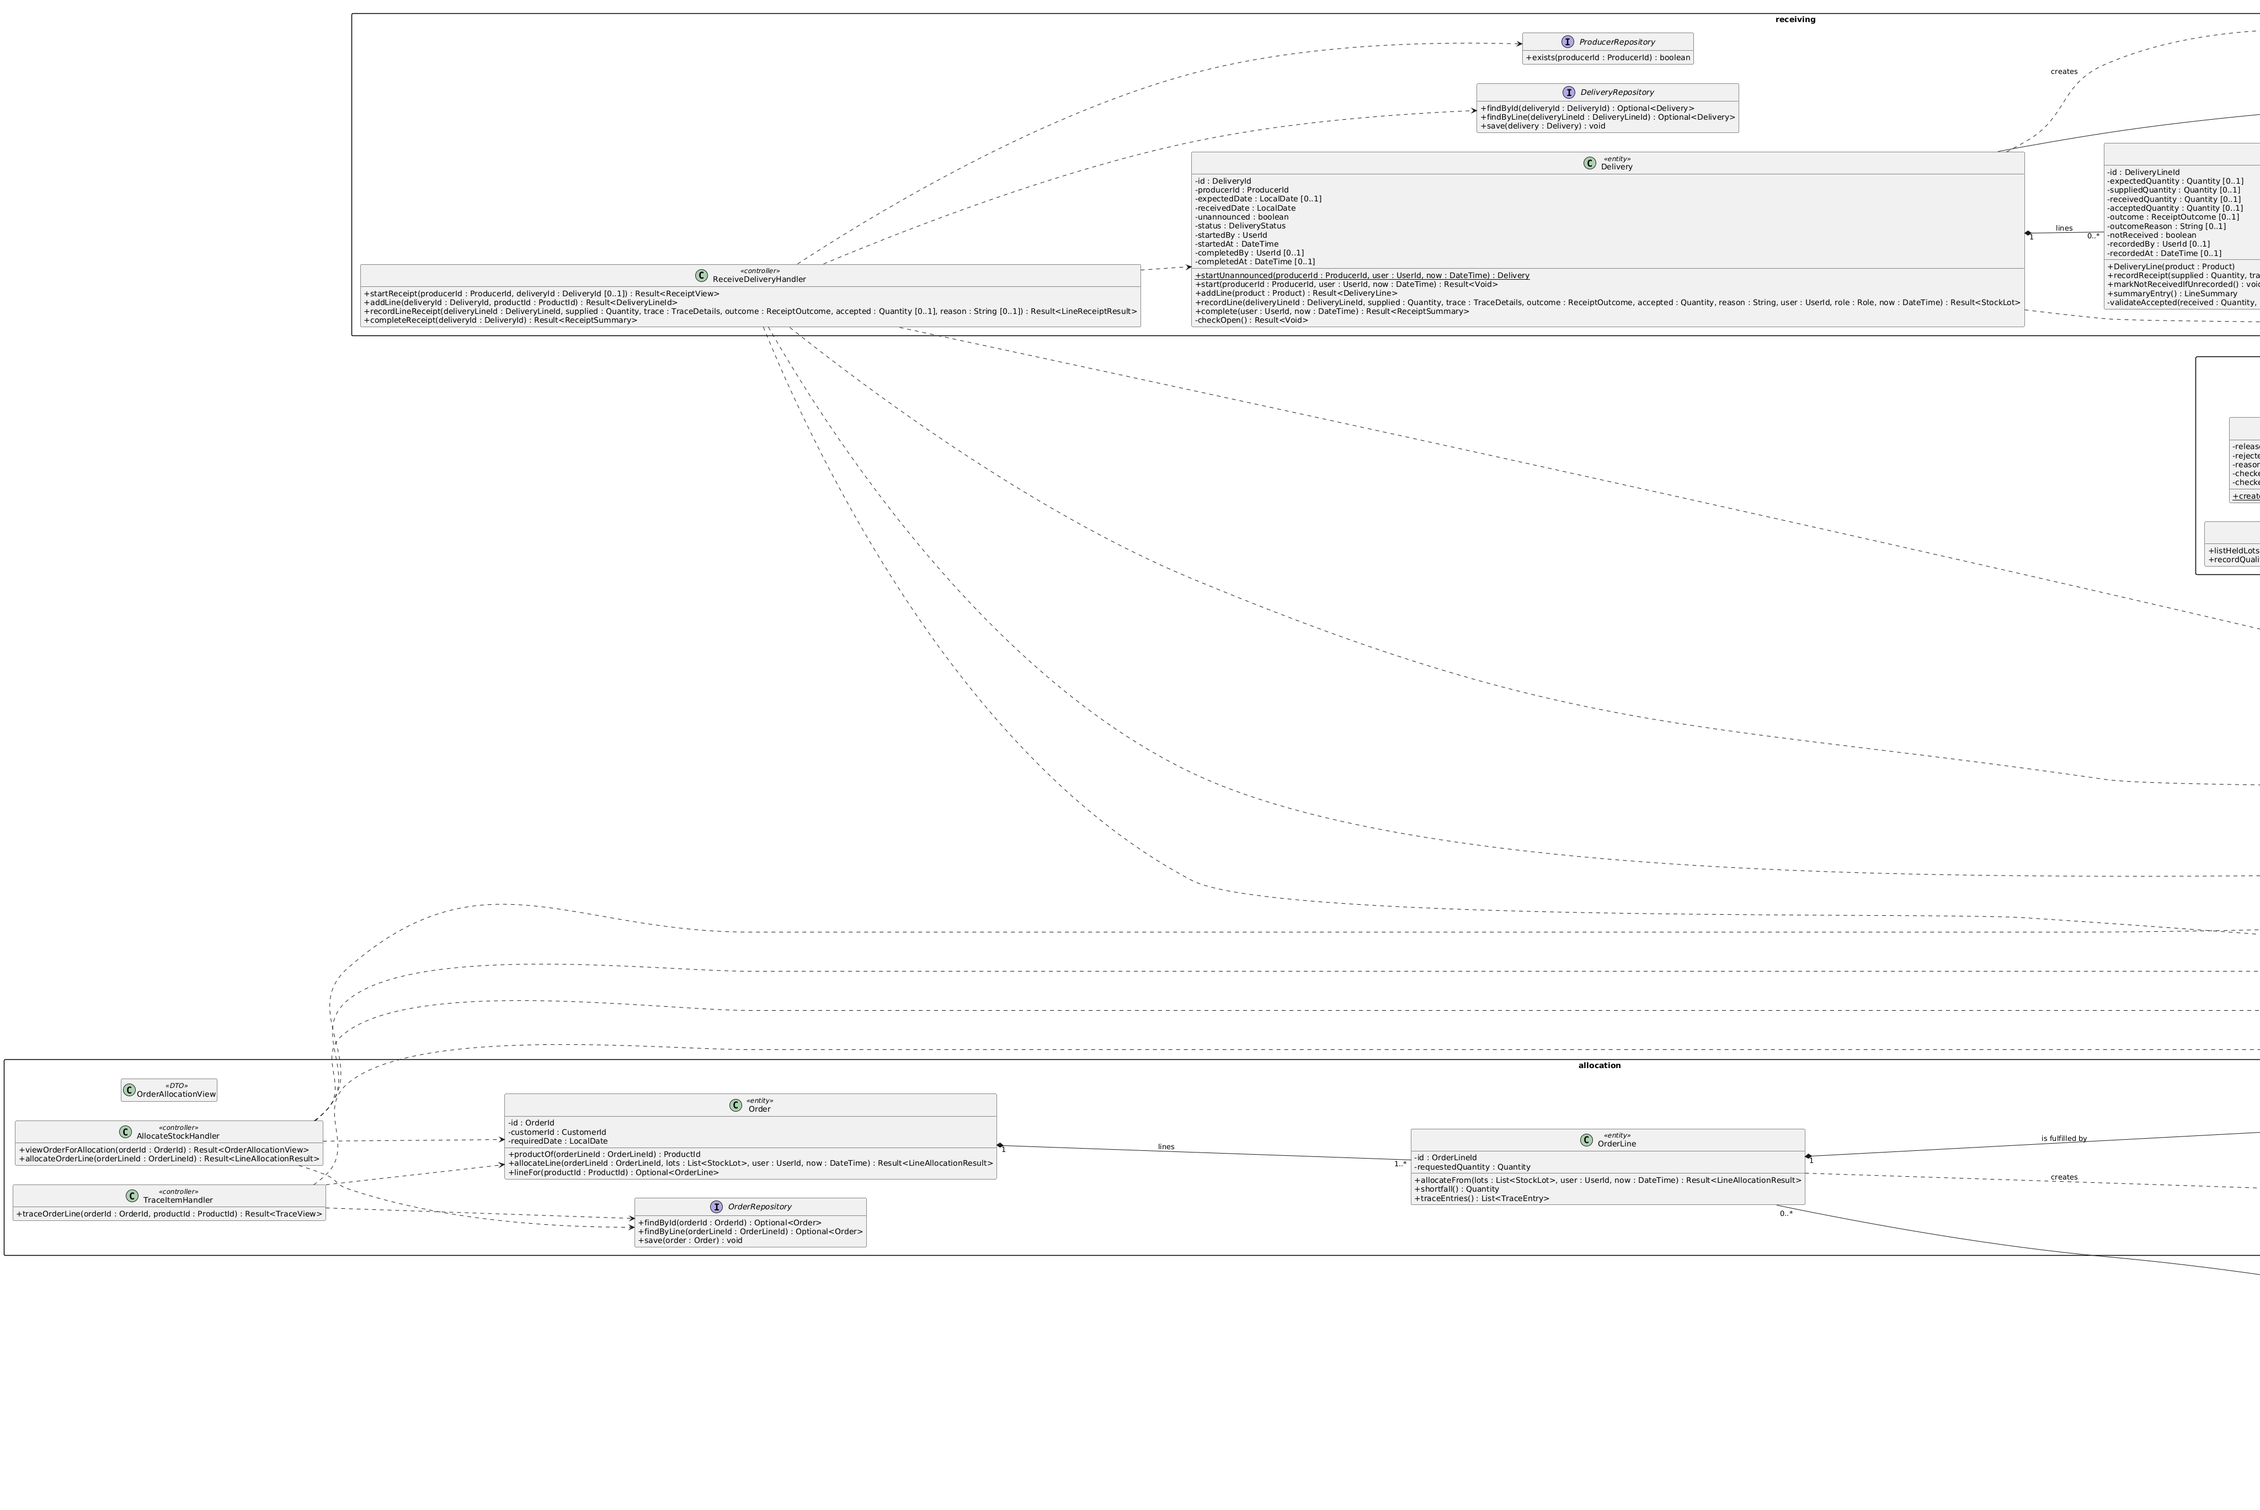
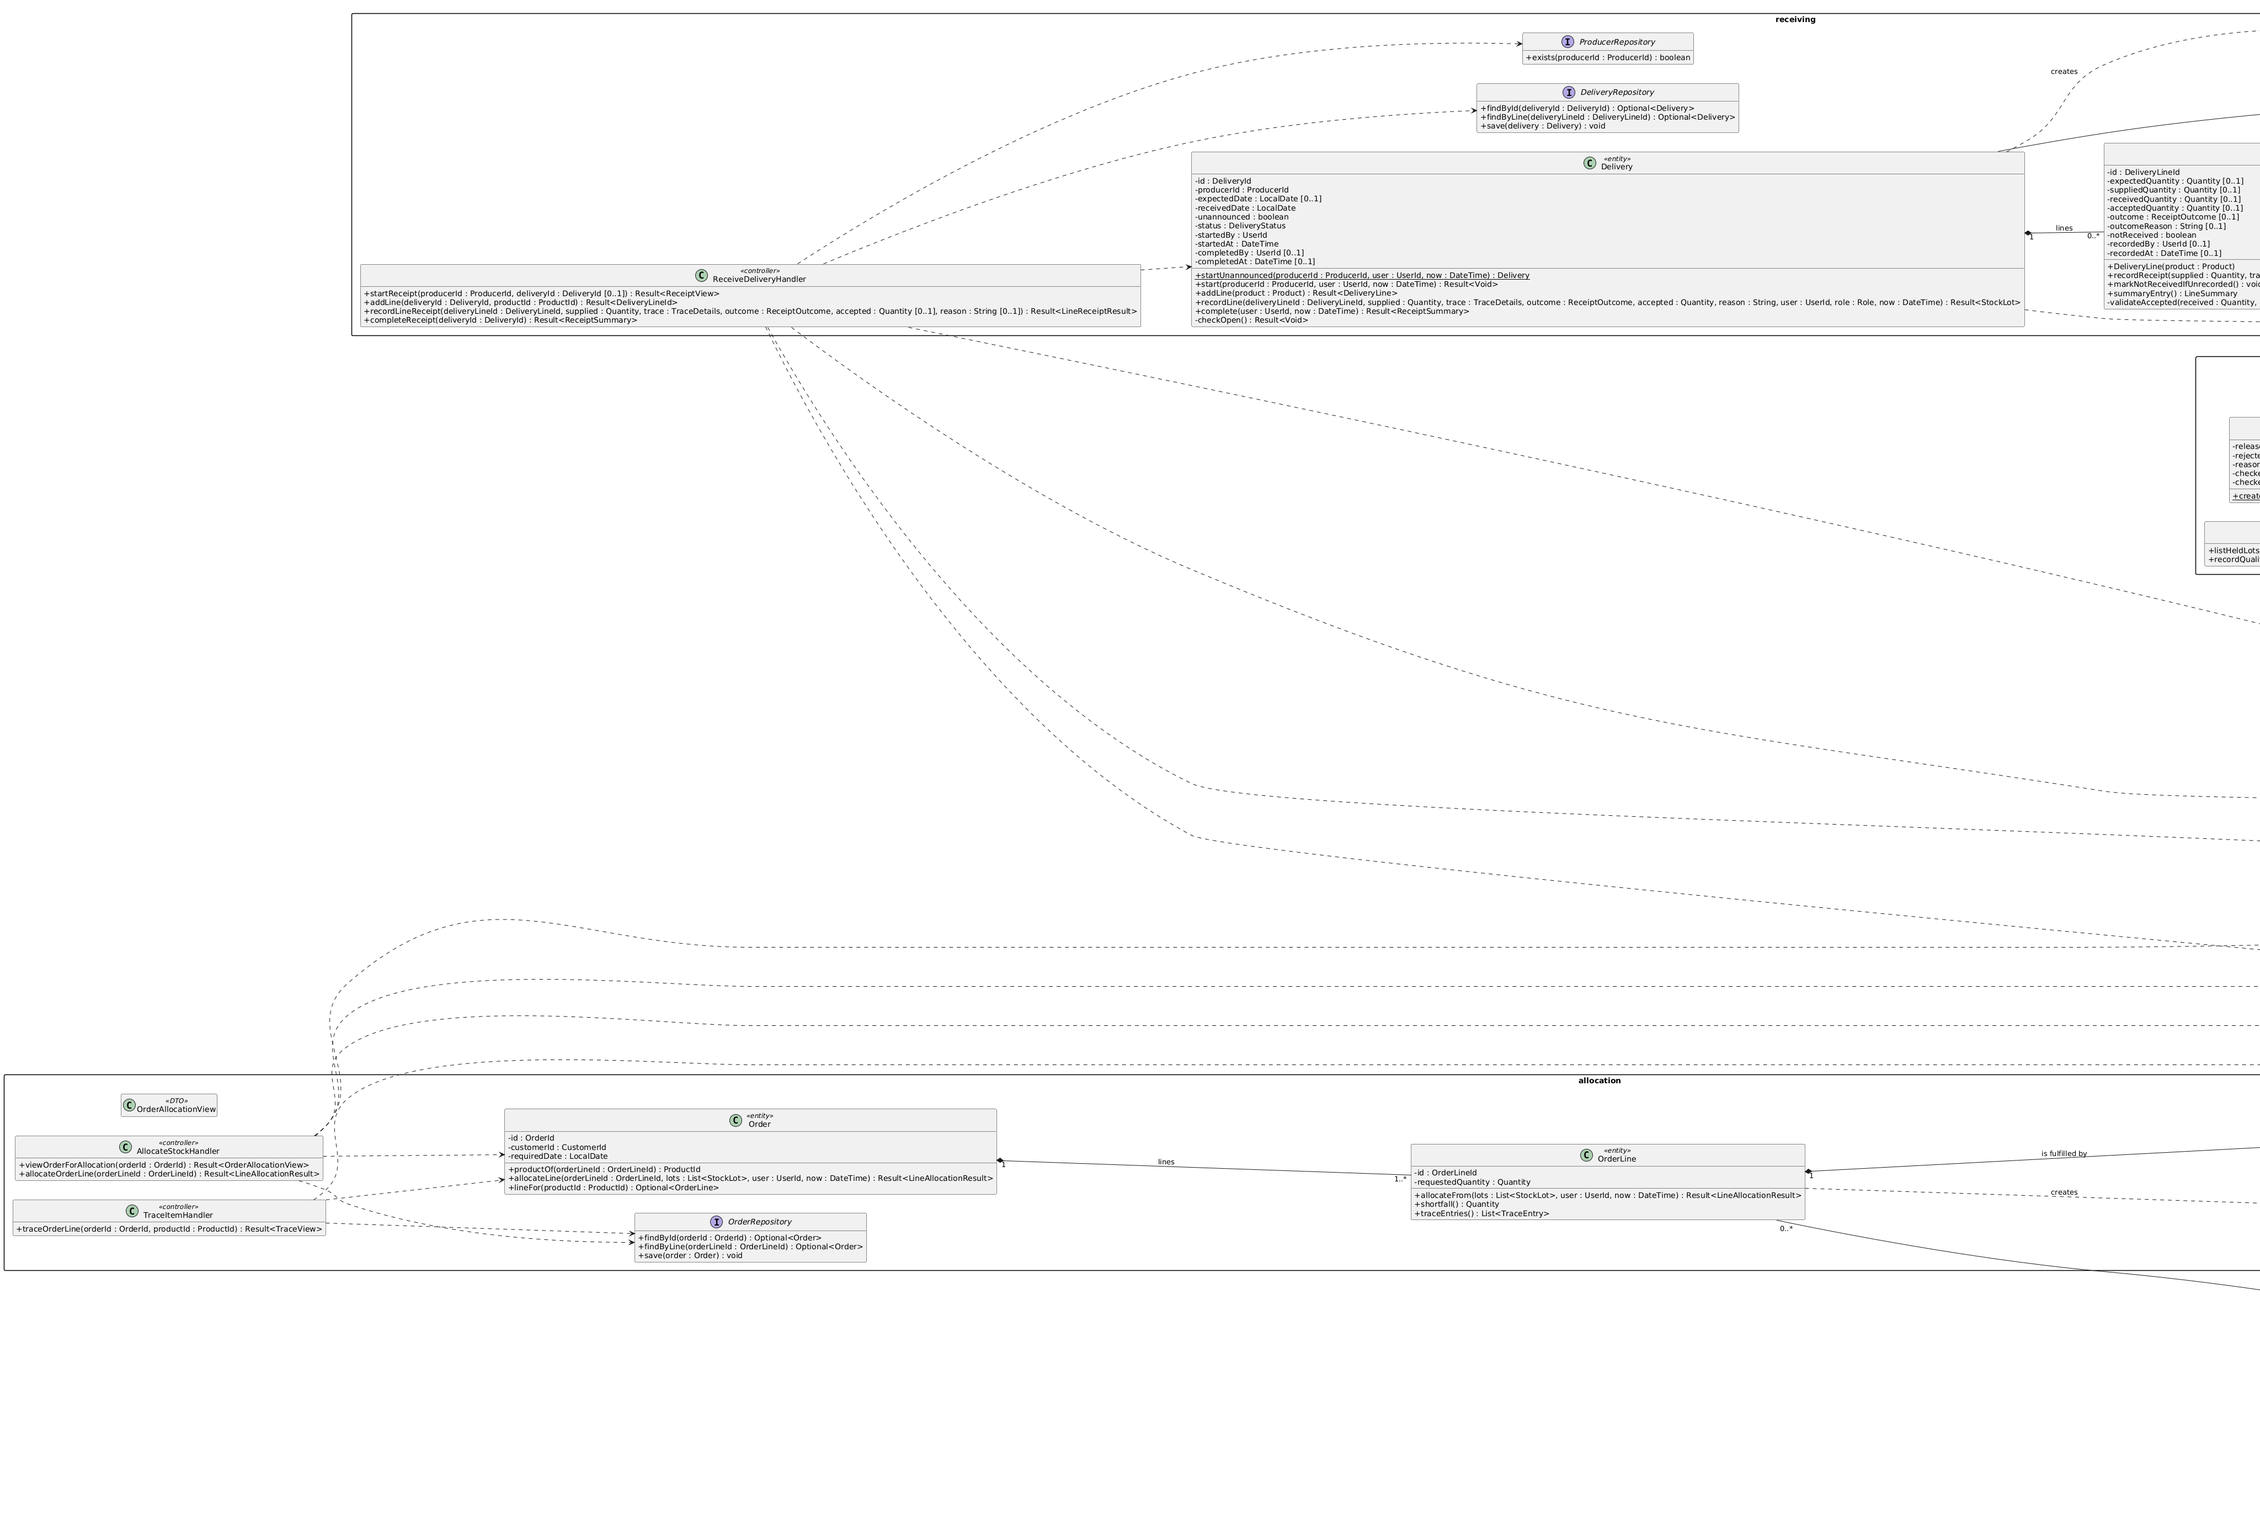
DES-27, DES-28, DES-29: DCD getters and export, DR-009, README board link; dossier sections 1, 5.1, 6.1, 6.4, 8 final, 10

diff --git a/dossier/08-design-evaluation.md b/dossier/08-design-evaluation.md
@@ -1,15 +1,15 @@
 # 8. Design Evaluation
 
-**Cohesion.** Each selected use case has its own controller (`ReceiveDeliveryHandler` for UC-02, `ReleaseHeldStockHandler` for UC-03 [, … UC-05, UC-06]) rather than one hub facade (DR-005). Handlers only coordinate; rules sit with the objects that hold the data: `DeliveryLine` checks accepted against received, `ReceiptOutcome` holds the rejection permission, `StockLot` guards held versus available. The cost is some repetition: every handler reads the user, role and time from `AuditContext` and `Clock` before delegating.
+**Cohesion.** Each use case has its own controller (`ReceiveDeliveryHandler`, `ReleaseHeldStockHandler`, `AllocateStockHandler`, plus `TraceItemHandler` for UC-09) rather than one hub facade (DR-005). Controllers only coordinate; rules sit with the objects that hold the data: `DeliveryLine` checks accepted against received, `StockLot` guards held versus available and records quality checks (DR-007), and `OrderLine` allocates from lots (DR-010). The cost is repetition: every controller reads the user, role and time before delegating.
 
-**Coupling.** Handlers depend on repository interfaces, not storage, so persistence can change without touching domain classes. `Delivery` is the aggregate root for receipt: the handler never reaches a `DeliveryLine` directly, so line rules cannot be bypassed. The strongest coupling we accepted is `DeliveryLine` creating `StockLot` (DR-006): a change to the lot's constructor affects receipt. We judged that safer than letting the handler compute accepted and held quantities itself.
+**Coupling.** Controllers depend on repository interfaces, never on storage, and slices depend only on `shared`, never on each other (package view). The strongest coupling is around `StockLot`: all three use cases change it, so a change to its quantities affects every slice. We accepted this because one lot per received line keeps one producer and batch (SPK-01); splitting it would have spread traceability across objects.
 
-**Object validity.** Objects are created valid or not at all: `Delivery.startUnannounced` sets the unannounced invariants, `StockLot` is constructed with all three quantities, and every operation returns `Result<T>` so a refused request changes nothing (no partially valid objects). No class exposes a public status or quantity setter.
+**Object validity.** Objects are created valid or not at all: `Delivery.startUnannounced` sets the unannounced invariants, `StockLot` is constructed with its quantities, and every operation returns `Result<T>`, so a refusal changes nothing (interface catalogue §2). No class exposes a public status or quantity setter.
 
-**Main risk found in evaluation.** The manager-only rejection rule (A-04) is enforced in two places: `ReceiptOutcome.permittedFor` during receipt (UC-02) and the quality-check permission in UC-03. If Q-04 changes who may reject, both must change. A single role-permission object would remove that duplication; we did not introduce it because only two use cases need it, but it is the first refactoring we would make. [Confirm UC-03's design and update this paragraph.]
+**Main risk found in evaluation.** The manager-only rejection rule (A-04) is phrased twice: `ReceiptOutcome.permittedFor(role)` at receipt and `Role.mayReject()` in the quality check. Both rely on `Role`, but if Q-04 changes who may reject, both must change. The first refactoring we would make is for `permittedFor` to delegate to `Role.mayReject()`.
 
-**Assumptions the design depends on.** A-02 fixed conversion factors per product (`Product.toSellingUnit`); A-04 only the manager rejects; A-05 shortage priority by order date, isolated behind `AllocationPolicy` so it can change (RC-02, SPK-02); RC-05 perishables never return to stock.
+**Assumptions.** A-02 fixed unit conversion per product; A-04 only the manager rejects; RC-05 perishables never return to stock; A-05 shortage priority by order date.
 
-**Rejected alternatives.** A single `HubController` (DR-005: low cohesion as use cases are added); a separate held-goods object (SPK-01 option B: traceability details copied to two objects); the handler creating stock lots (DR-006: rule could be bypassed).
+**Rejected alternatives.** A single `HubController` (DR-005); a separate held-goods object (SPK-01 option B); the controller creating stock lots (DR-006); plus the alternatives in DR-007 and DR-010.
 
-**Limitations.** The design does not cover concurrent recording of the same line by two volunteers, a database design, or how notifications are actually sent (only `NotificationPort`). UC-01, UC-06, UC-07, UC-08 and UC-10 are not designed; UC-06 was descoped (DR-011), so shortage priority (RC-02) remains an assumption behind AllocationPolicy. A partial release leaves one lot with mixed history; the quality-check records keep that history, but the lot itself does not show which portion came from which check.
+**Limitations.** UC-06 Handle shortfall was descoped (DR-011), so shortage priority and customer substitution preferences are not designed; S3 reports the shortfall quantity so UC-06 can be added without changing it. The design does not cover concurrent recording of the same line, a database design, or UC-01, UC-07, UC-08 and UC-10. A partial release leaves one lot with mixed history, kept only in its quality-check records.

diff --git a/decisions/DR-009-ai-supported-design-changes.md b/decisions/DR-009-ai-supported-design-changes.md
@@ -1,0 +1,36 @@
+# DR-009 – Significant AI-supported design changes
+
+| Field | Content |
+|-------|---------|
+| Date | 2026-11-26 |
+| Status | Accepted |
+| Owner | Philip Dawson-Gariepy |
+| Reviewer | Oleksandr Motoryhin |
+| Related | [Group AI declaration](ai-declaration-group.md), [ai-use-log.md](ai-use-log.md), [ai-use-log-kramnov.md](ai-use-log-kramnov.md) |
+
+## Context
+
+The brief requires a decision record for each significant AI-supported design change the group accepted, with evidence that people evaluated it. This record lists those changes, how each was checked, and suggestions that were changed or rejected.
+
+## Accepted AI-supported changes
+
+| Change | Where | How people evaluated it | Result |
+|--------|-------|-------------------------|--------|
+| One `StockLot` per received line with accepted, held and written-off quantities | OC-03, SD-S1a | Danil evaluated it independently against a separate held-goods object in SPK-01 before it was accepted | Accepted (SPK-01 option A) |
+| One controller per use case instead of a hub facade | DR-005 | Philip compared three candidates; confirmed when S2 and S3 each designed their own controller | Accepted |
+| `DeliveryLine` as creator of `StockLot` | DR-006 | Philip checked it against OC-03's postconditions and the domain model's `yields` association | Accepted |
+| Session 14 alignment of S1: actor lifelines, `deliveryLineId` naming, SD-S1c, domain-model attribute names | PR #3, #4 | Checked against Session 14's design-ready audit; a later check found DEF-01 (multiplicity, out-of-date PNG), fixed in a follow-up change | Accepted with correction |
+| Integrated design class diagram merged from the S1, S2 and S3 fragments | DCD-integrated, PR #12 | Merge exposed DEF-02 (two different available-quantity formulas); the group kept the interface catalogue's formula; a consistency check confirmed every sequence-diagram message maps to an operation | Accepted with correction |
+
+## Changed or rejected AI suggestions
+
+| Suggestion | What we did instead | Why |
+|------------|---------------------|-----|
+| Technology profile Java 21 + Maven 3.9 (DR-004) | Changed to Java 25 + Maven 3.10, then superseded | Newer LTS preferred by Philip; CA3 later removed by the updated brief |
+| Keep four use cases by having others design UC-06 | Reduced scope to three use cases (DR-011) | Group decision not to move an absent member's work onto others |
+| *(Danil: add any suggestion you changed or rejected)* | | |
+| *(Alex: add any suggestion you changed or rejected)* | | |
+
+## Consequences
+
+Each listed change is traceable to a pull request. Any later change to these artefacts follows the normal review process (DR-002 Definition of Done).

diff --git a/dossier/06-1-UC-02-interactions.md b/dossier/06-1-UC-02-interactions.md
@@ -1,0 +1,7 @@
+## 6.1 UC-02 Receive delivery – interactions
+
+SD-S1a realises OC-03. Its first message, `recordLineReceipt(deliveryLineId, …)`, is the same system event as SSD-S1. The handler delegates to `Delivery.recordLine`, which completes the trace and passes the receipt to the line; the line checks permission, converts units, validates quantities and creates the lot. Saves happen only after the last check, so every refusal leaves the system unchanged. SD-S1b and SD-S1c realise OC-04 and OC-01/OC-02. The message-to-operation table in the traceability matrix maps every message to an operation in the integrated class diagram.
+
+## 6.4 Consistency across the three use cases
+
+`StockLot` is the one class all three use cases change: UC-02 creates it, UC-03 moves held quantity to accepted or written off, UC-05 allocates from it. The fragments first disagreed on its attribute names and on the available-quantity formula; merging them into one integrated class diagram exposed both, and we fixed them in one reviewed change (DEF-02): `availableQuantity() = acceptedQuantity − allocatedQuantity`. A final check confirmed that every message in all six sequence diagrams maps to an operation in the integrated diagram, and every operation there is used.

diff --git a/dossier/01-introduction.md b/dossier/01-introduction.md
@@ -1,0 +1,7 @@
+# 1. Introduction and Product Goal
+
+Kerry Local Food Hub collects produce from local producers and allocates it to household, hospitality and community customers. Its core problem is that goods received are not the same as goods available: some fail checking, some are held, and allocations are made from stock that may not exist. CA2 designs the part of a system that fixes this.
+
+**Product Goal:** give Kerry Local Food Hub staff and volunteers one reliable record of what has arrived, what is held and what is available, so that customers receive only checked goods, shortfalls follow customers' stated preferences, and every allocated item can be traced to its producer and batch (DR-002).
+
+We designed three use cases in detail: UC-02 Receive delivery, UC-03 Release held stock and UC-05 Allocate stock (Section 3). Each follows one chain: backlog item → use case and Gherkin → system sequence diagram → operation contract → CRC and GRASP → sequence diagram → integrated design class diagram. The repository is the authoritative record; this dossier explains the decisions.

diff --git a/dossier/05-1-UC-02-responsibilities.md b/dossier/05-1-UC-02-responsibilities.md
@@ -1,0 +1,5 @@
+## 5.1 UC-02 Receive delivery – responsibilities
+
+The CRC cards (CRC-S1) place every rule with the class that holds its data. `ReceiveDeliveryHandler` is a use-case controller (DR-005): it receives the four system events and coordinates, but makes no decisions. We rejected a single `HubController` because it would grow with every use case and every member would change the same class.
+
+`DeliveryLine` holds received and accepted quantities, so it checks that accepted never exceeds received (Information Expert) and creates the `StockLot` (Creator, DR-006). Letting the handler create the lot was rejected: it would repeat the "no lot when rejected" rule outside the domain. `Delivery`, as aggregate root, completes the trace details because only it knows the producer and date. `ReceiptOutcome.permittedFor(role)` holds the manager-only rejection rule (A-04), so a change to that rule touches one method (Protected Variations).

diff --git a/dossier/10-ai-use.md b/dossier/10-ai-use.md
@@ -1,0 +1,5 @@
+# 10. AI Use and How It Was Checked
+
+Members used Claude (Anthropic) as declared in the group AI declaration and individual logs. It was used for templates, first drafts of design artefacts, consistency checks between models and wording. It did not make scope or design decisions on its own: each significant AI-supported change is listed in DR-009 with how it was evaluated.
+
+AI output was checked in three ways. First, against the brief and Session 14's design-ready audit, which found naming and sequence-diagram problems that were then fixed. Second, by independent evaluation: SPK-01 compared the AI-suggested one-lot design against an alternative before it was accepted. Third, through review of pull requests by a member who did not author the change. Where AI suggestions were changed or rejected, this is recorded in the individual logs, for example the technology profile, which was changed and later superseded.

diff --git a/README.md b/README.md
@@ -14,7 +14,7 @@ UC-02 Receive delivery · UC-03 Release held stock · UC-05 Allocate stock · UC
 
 ## How we work
 
-- **Backlog and board:** Trello (link: *add board URL*). Each card links to the pull request and files it produced.
+- **Backlog and board:** Trello (link: https://trello.com/invite/b/6ae8aa97f29ecaceb4239398/ATTI48b297c7096ae6107cb683c67108554f14AE61A7/ca2oopaad). Each card links to the pull request and files it produced.
 - **Changes:** one branch per backlog item; merged to `main` only through a pull request approved by the reviewer named on the card.
 - **Definition of Done:** [DR-002](decisions/DR-002-product-goal-and-dod.md).
 - **Baselines:** tag `ca1-baseline` = CA1 analysis before reconciliation; tag `ca2-submission` = the submitted design.
